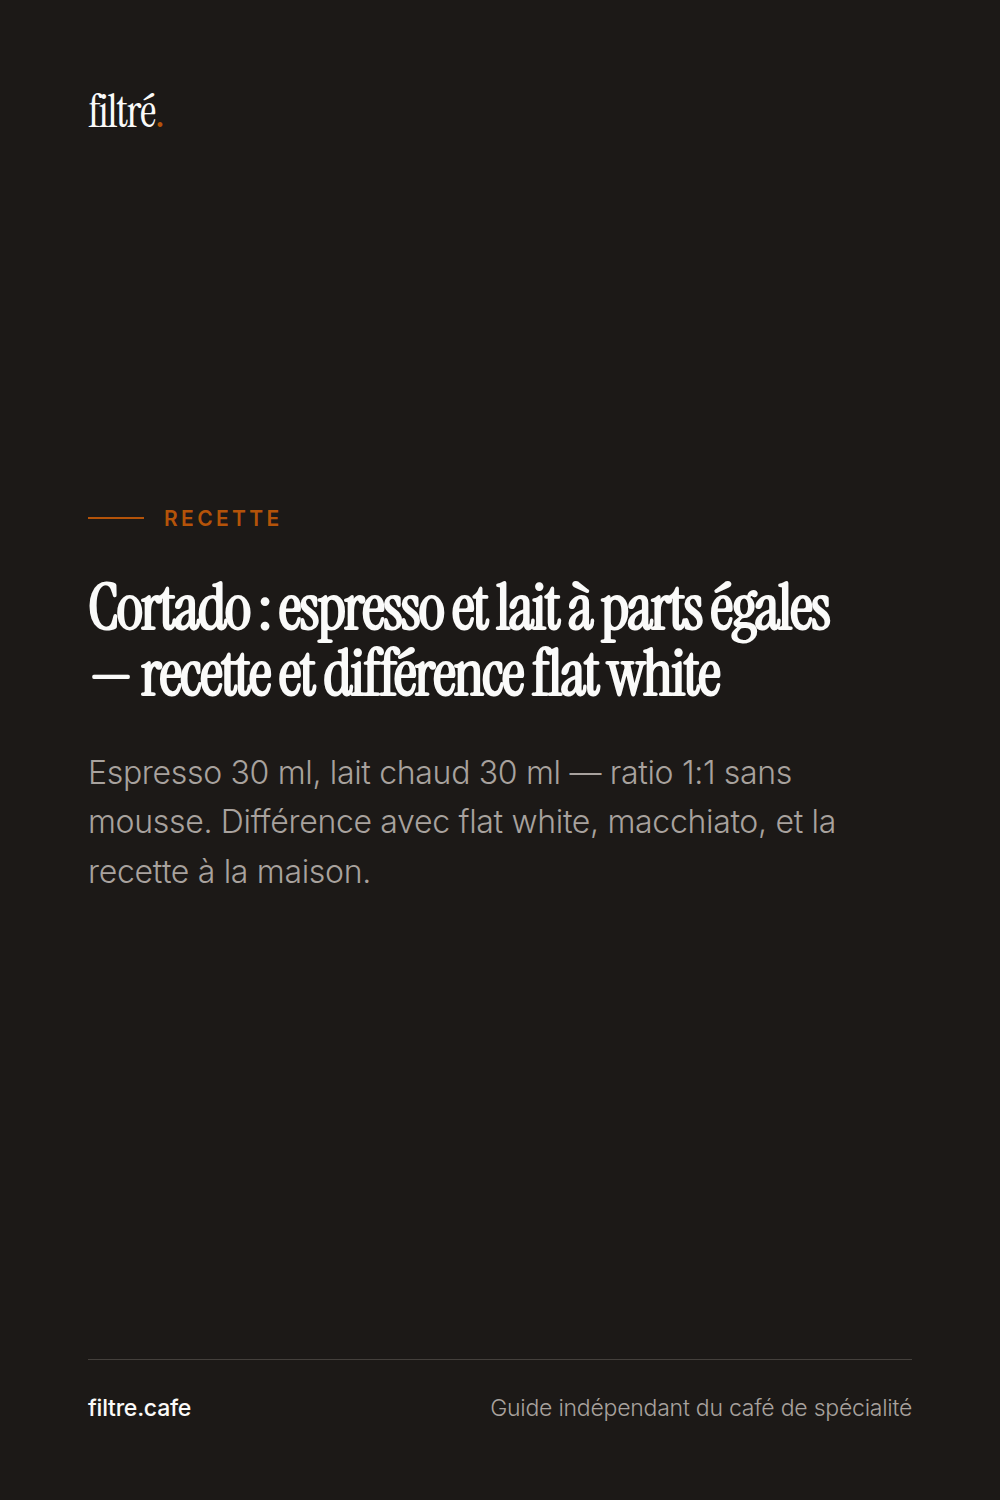
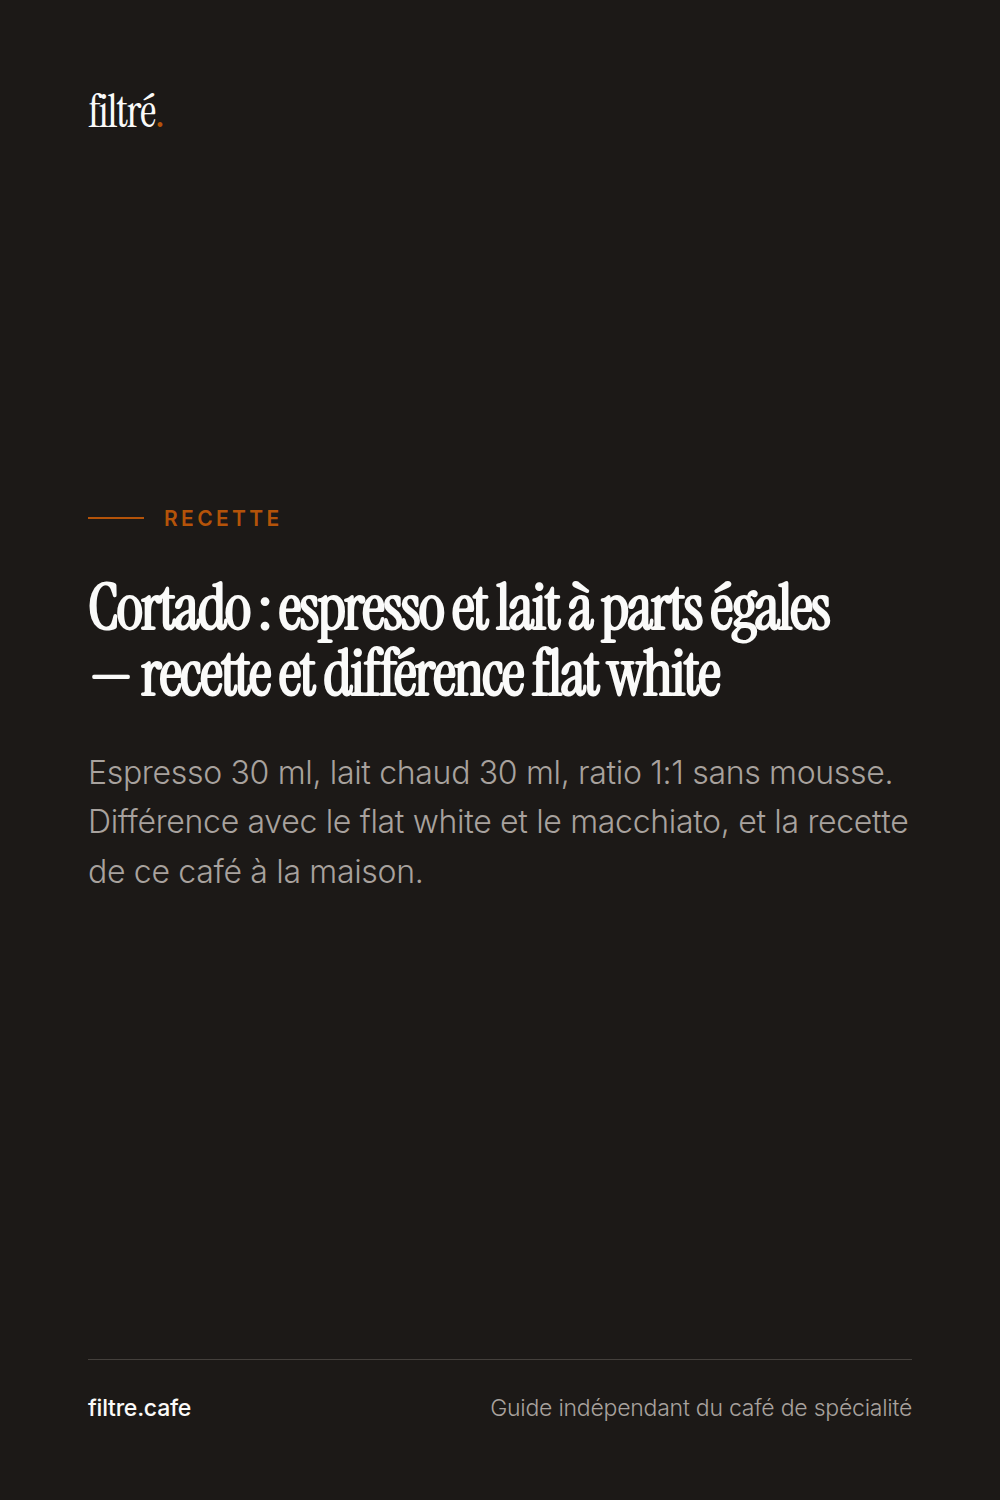
Trois meta descriptions auxquelles il manquait leur mot-cle principal
Audit des 81 epingles : pour chacune, verification que les mots du slug (la
requete visee) apparaissent bien dans le titre ou la description. 17 signalees,
3 vraies.

- cortado : le mot "cafe" n'apparaissait ni dans le titre ni dans la
  description de l'article sur le cafe cortado
- lion's mane : "champignon" absent, alors que c'est le terme tape
- cafe bio : "France" absent, alors que le slug vise cafe-bio-specialite-france

Corrige dans le HTML legacy et dans le fragment head, a la main : gen.py
reecrirait tout le fichier (les fragments ont diverge des sources). Sans tiret
cadratin, comme le reste des fragments. Les deux epingles qui impriment la
description sur l'image sont regenerees, la troisieme utilise la mise en page
sommaire et n'a pas bouge.

Retire aussi tools/pinterest/__pycache__ du suivi, commite par erreur, et
ajoute __pycache__/ au gitignore.

Claude-Session: https://claude.ai/code/session_01U53Zdnavej1rMWtHJiQMQS

Changed region(s): [[0.093, 0.4907, 0.899, 0.6133]]

diff --git a/journal/cafe-bio-specialite-france.html b/journal/cafe-bio-specialite-france.html
@@ -4,7 +4,7 @@
 <meta charset="UTF-8">
 <meta name="viewport" content="width=device-width, initial-scale=1.0">
 <title>Café bio et café de spécialité : la vraie différence | filtré.</title>
-<meta name="description" content="Bio ne veut pas dire bon, et specialty ne veut pas dire chimique. On démêle les labels, les certifications et ce qui compte vraiment dans la tasse.">
+<meta name="description" content="Bio ne veut pas dire bon, et specialty ne veut pas dire chimique. Labels, certifications et torréfacteurs bio en France : ce qui compte dans la tasse.">
 <meta name="author" content="filtré.">
 <meta name="robots" content="index, follow">
 <link rel="canonical" href="https://filtre.cafe/journal/cafe-bio-specialite-france">

diff --git a/journal/champignon-lion-mane-cafe.html b/journal/champignon-lion-mane-cafe.html
@@ -4,7 +4,7 @@
 <meta charset="UTF-8">
 <meta name="viewport" content="width=device-width, initial-scale=1.0">
 <title>Café Lion's Mane : ce que dit vraiment la science | filtré.</title>
-<meta name="description" content="Lion's Mane, reishi, chaga — bienfaits réels, dosages, ce que les études disent. Et pourquoi ces boissons se vendent en dénigrant le café.">
+<meta name="description" content="Café aux champignons : Lion’s Mane, reishi, chaga. Bienfaits réels, dosages, ce que disent les études, et pourquoi ces boissons dénigrent le café.">
 <meta name="author" content="filtré.">
 <meta name="robots" content="noindex, nofollow">
 <link rel="canonical" href="https://filtre.cafe/journal/champignon-lion-mane-cafe">

diff --git a/journal/cafe-cortado-recette-guide.html b/journal/cafe-cortado-recette-guide.html
@@ -4,7 +4,7 @@
 <meta charset="UTF-8">
 <meta name="viewport" content="width=device-width, initial-scale=1.0">
 <title>Cortado : recette, ratio et différence avec le flat white | filtré.</title>
-<meta name="description" content="Espresso 30 ml, lait chaud 30 ml — ratio 1:1 sans mousse. Différence avec flat white, macchiato, et la recette à la maison.">
+<meta name="description" content="Espresso 30 ml, lait chaud 30 ml, ratio 1:1 sans mousse. Différence avec le flat white et le macchiato, et la recette de ce café à la maison.">
 <meta name="author" content="filtré.">
 <meta name="robots" content="index, follow">
 <link rel="canonical" href="https://filtre.cafe/journal/cafe-cortado-recette-guide">

diff --git a/astro/src/fragments/journal/cafe-bio-specialite-france.head.html b/astro/src/fragments/journal/cafe-bio-specialite-france.head.html
@@ -1,5 +1,5 @@
 <title>Café bio et café de spécialité : la vraie différence | filtré.</title>
-<meta name="description" content="Bio ne veut pas dire bon, et specialty ne veut pas dire chimique. On démêle les labels, les certifications et ce qui compte vraiment dans la tasse.">
+<meta name="description" content="Bio ne veut pas dire bon, et specialty ne veut pas dire chimique. Labels, certifications et torréfacteurs bio en France : ce qui compte dans la tasse.">
 <meta name="author" content="filtré.">
 <meta name="robots" content="index, follow">
 <link rel="canonical" href="https://filtre.cafe/journal/cafe-bio-specialite-france">

diff --git a/astro/src/fragments/journal/champignon-lion-mane-cafe.head.html b/astro/src/fragments/journal/champignon-lion-mane-cafe.head.html
@@ -1,5 +1,5 @@
 <title>Café Lion's Mane : ce que dit vraiment la science | filtré.</title>
-<meta name="description" content="Lion's Mane, reishi, chaga, bienfaits réels, dosages, ce que les études disent. Et pourquoi ces boissons se vendent en dénigrant le café.">
+<meta name="description" content="Café aux champignons : Lion’s Mane, reishi, chaga. Bienfaits réels, dosages, ce que disent les études, et pourquoi ces boissons dénigrent le café.">
 <meta name="author" content="filtré.">
 <meta name="robots" content="index, follow">
 <link rel="canonical" href="https://filtre.cafe/journal/champignon-lion-mane-cafe">

diff --git a/astro/src/fragments/journal/cafe-cortado-recette-guide.head.html b/astro/src/fragments/journal/cafe-cortado-recette-guide.head.html
@@ -1,5 +1,5 @@
 <title>Cortado : recette, ratio et différence avec le flat white | filtré.</title>
-<meta name="description" content="Espresso 30 ml, lait chaud 30 ml, ratio 1:1 sans mousse. Différence avec flat white, macchiato, et la recette à la maison.">
+<meta name="description" content="Espresso 30 ml, lait chaud 30 ml, ratio 1:1 sans mousse. Différence avec le flat white et le macchiato, et la recette de ce café à la maison.">
 <meta name="author" content="filtré.">
 <meta name="robots" content="index, follow">
 <link rel="canonical" href="https://filtre.cafe/journal/cafe-cortado-recette-guide">
